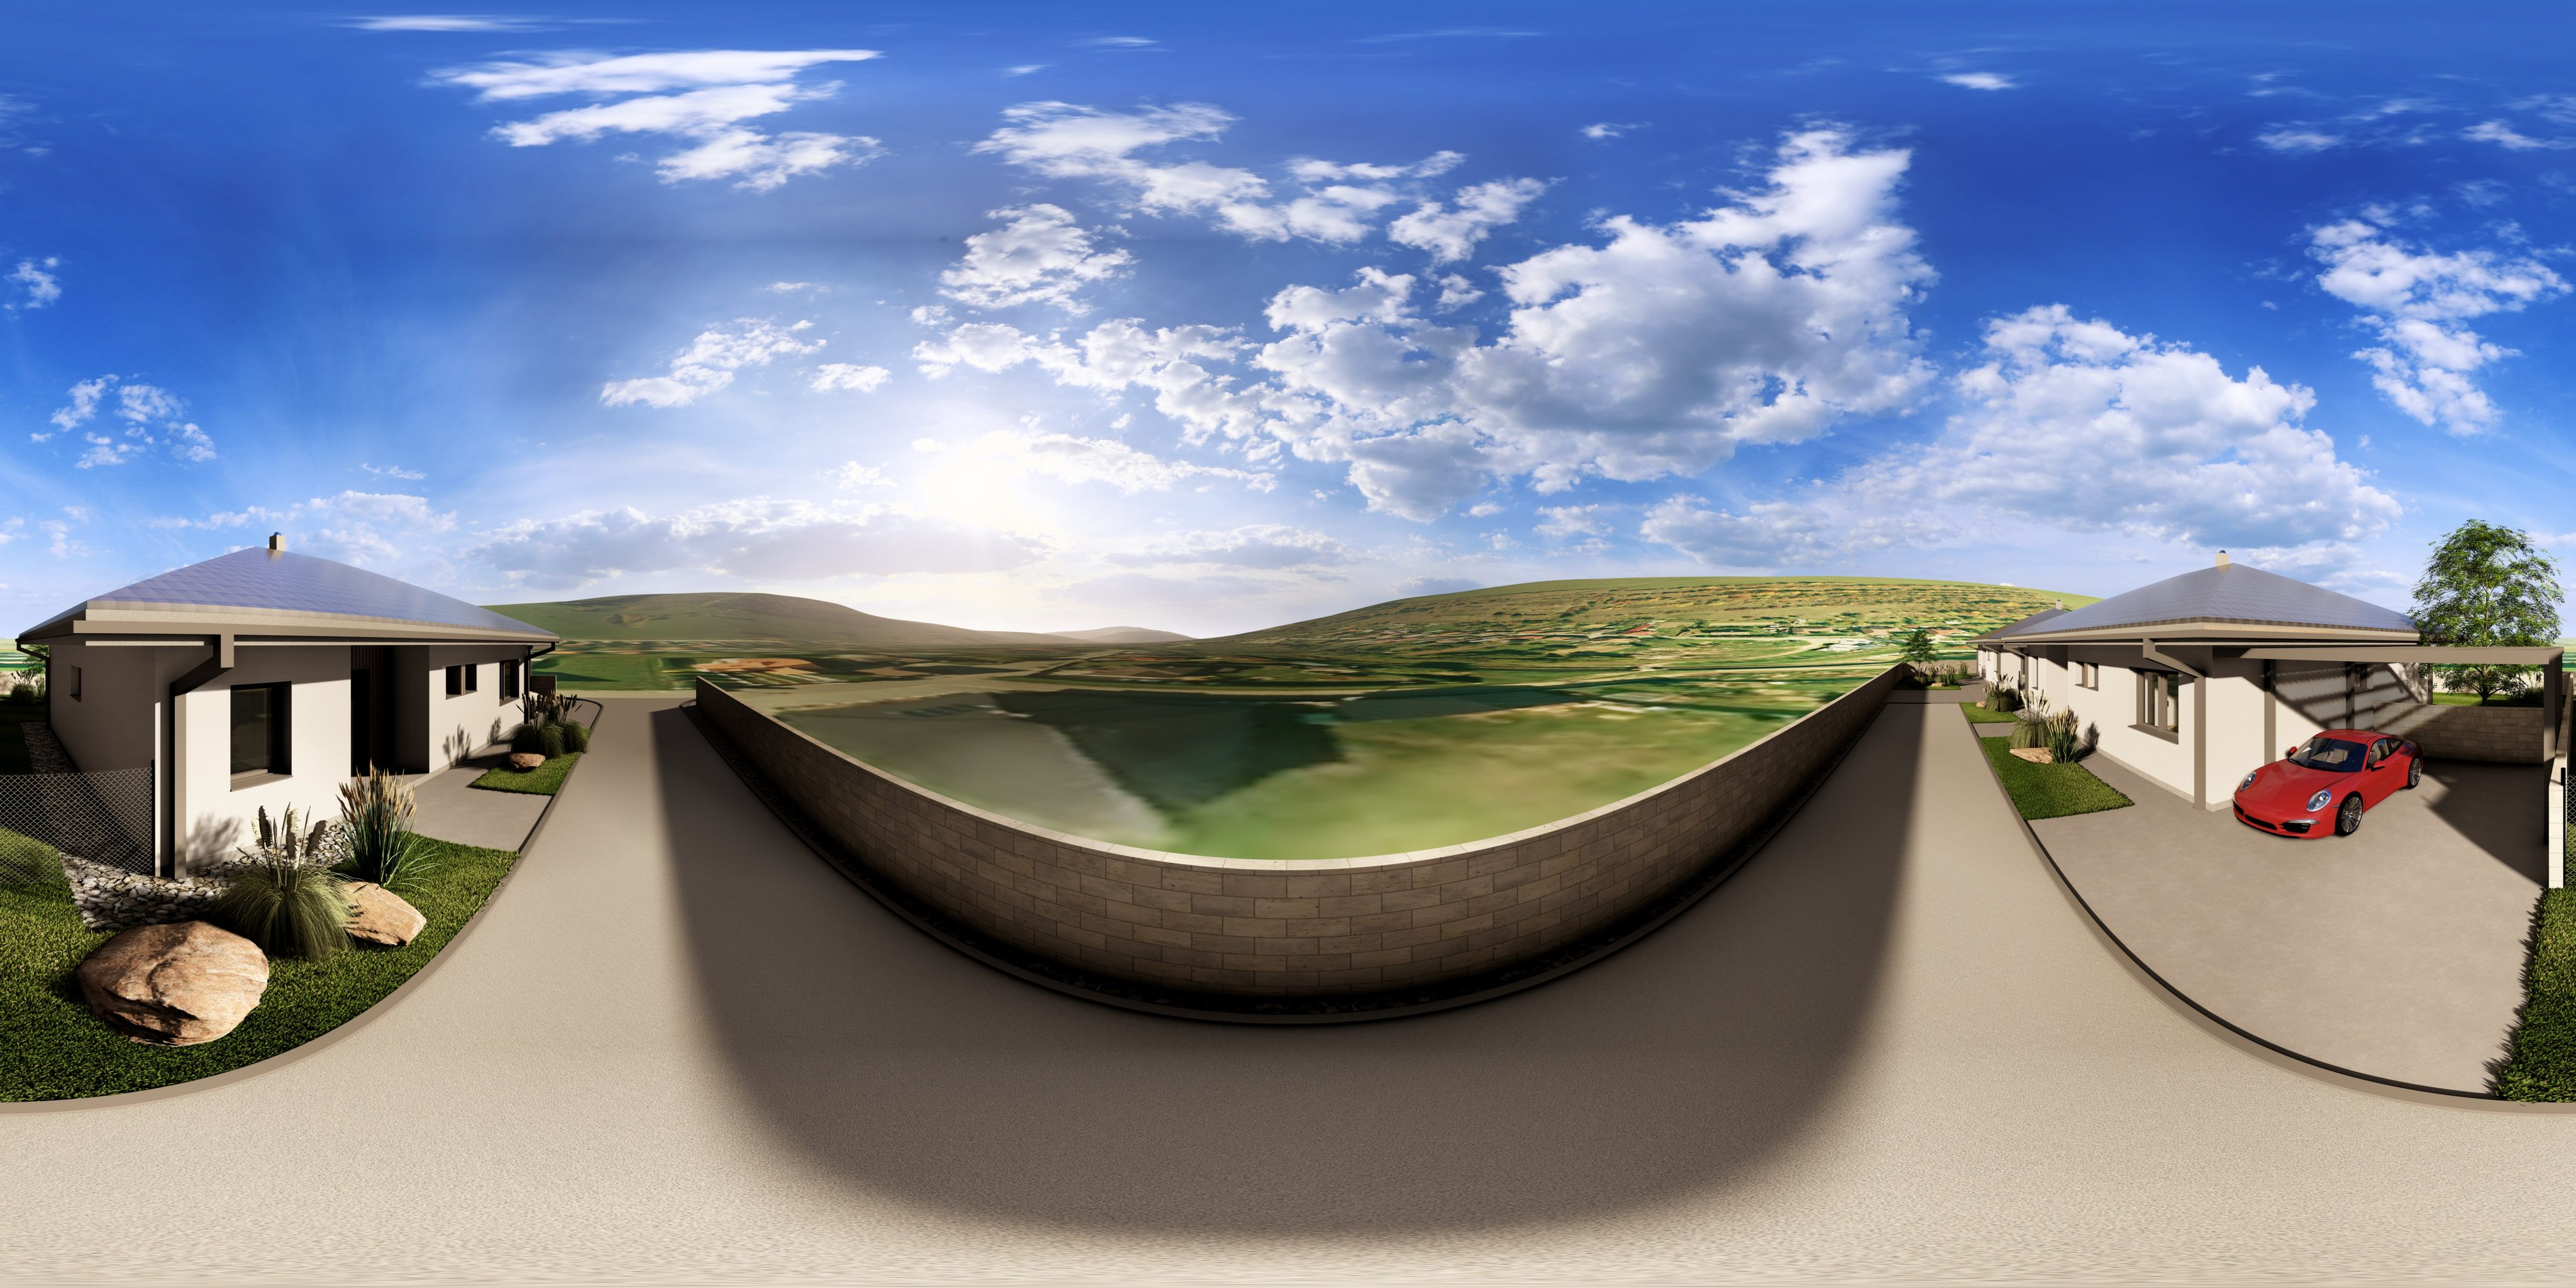
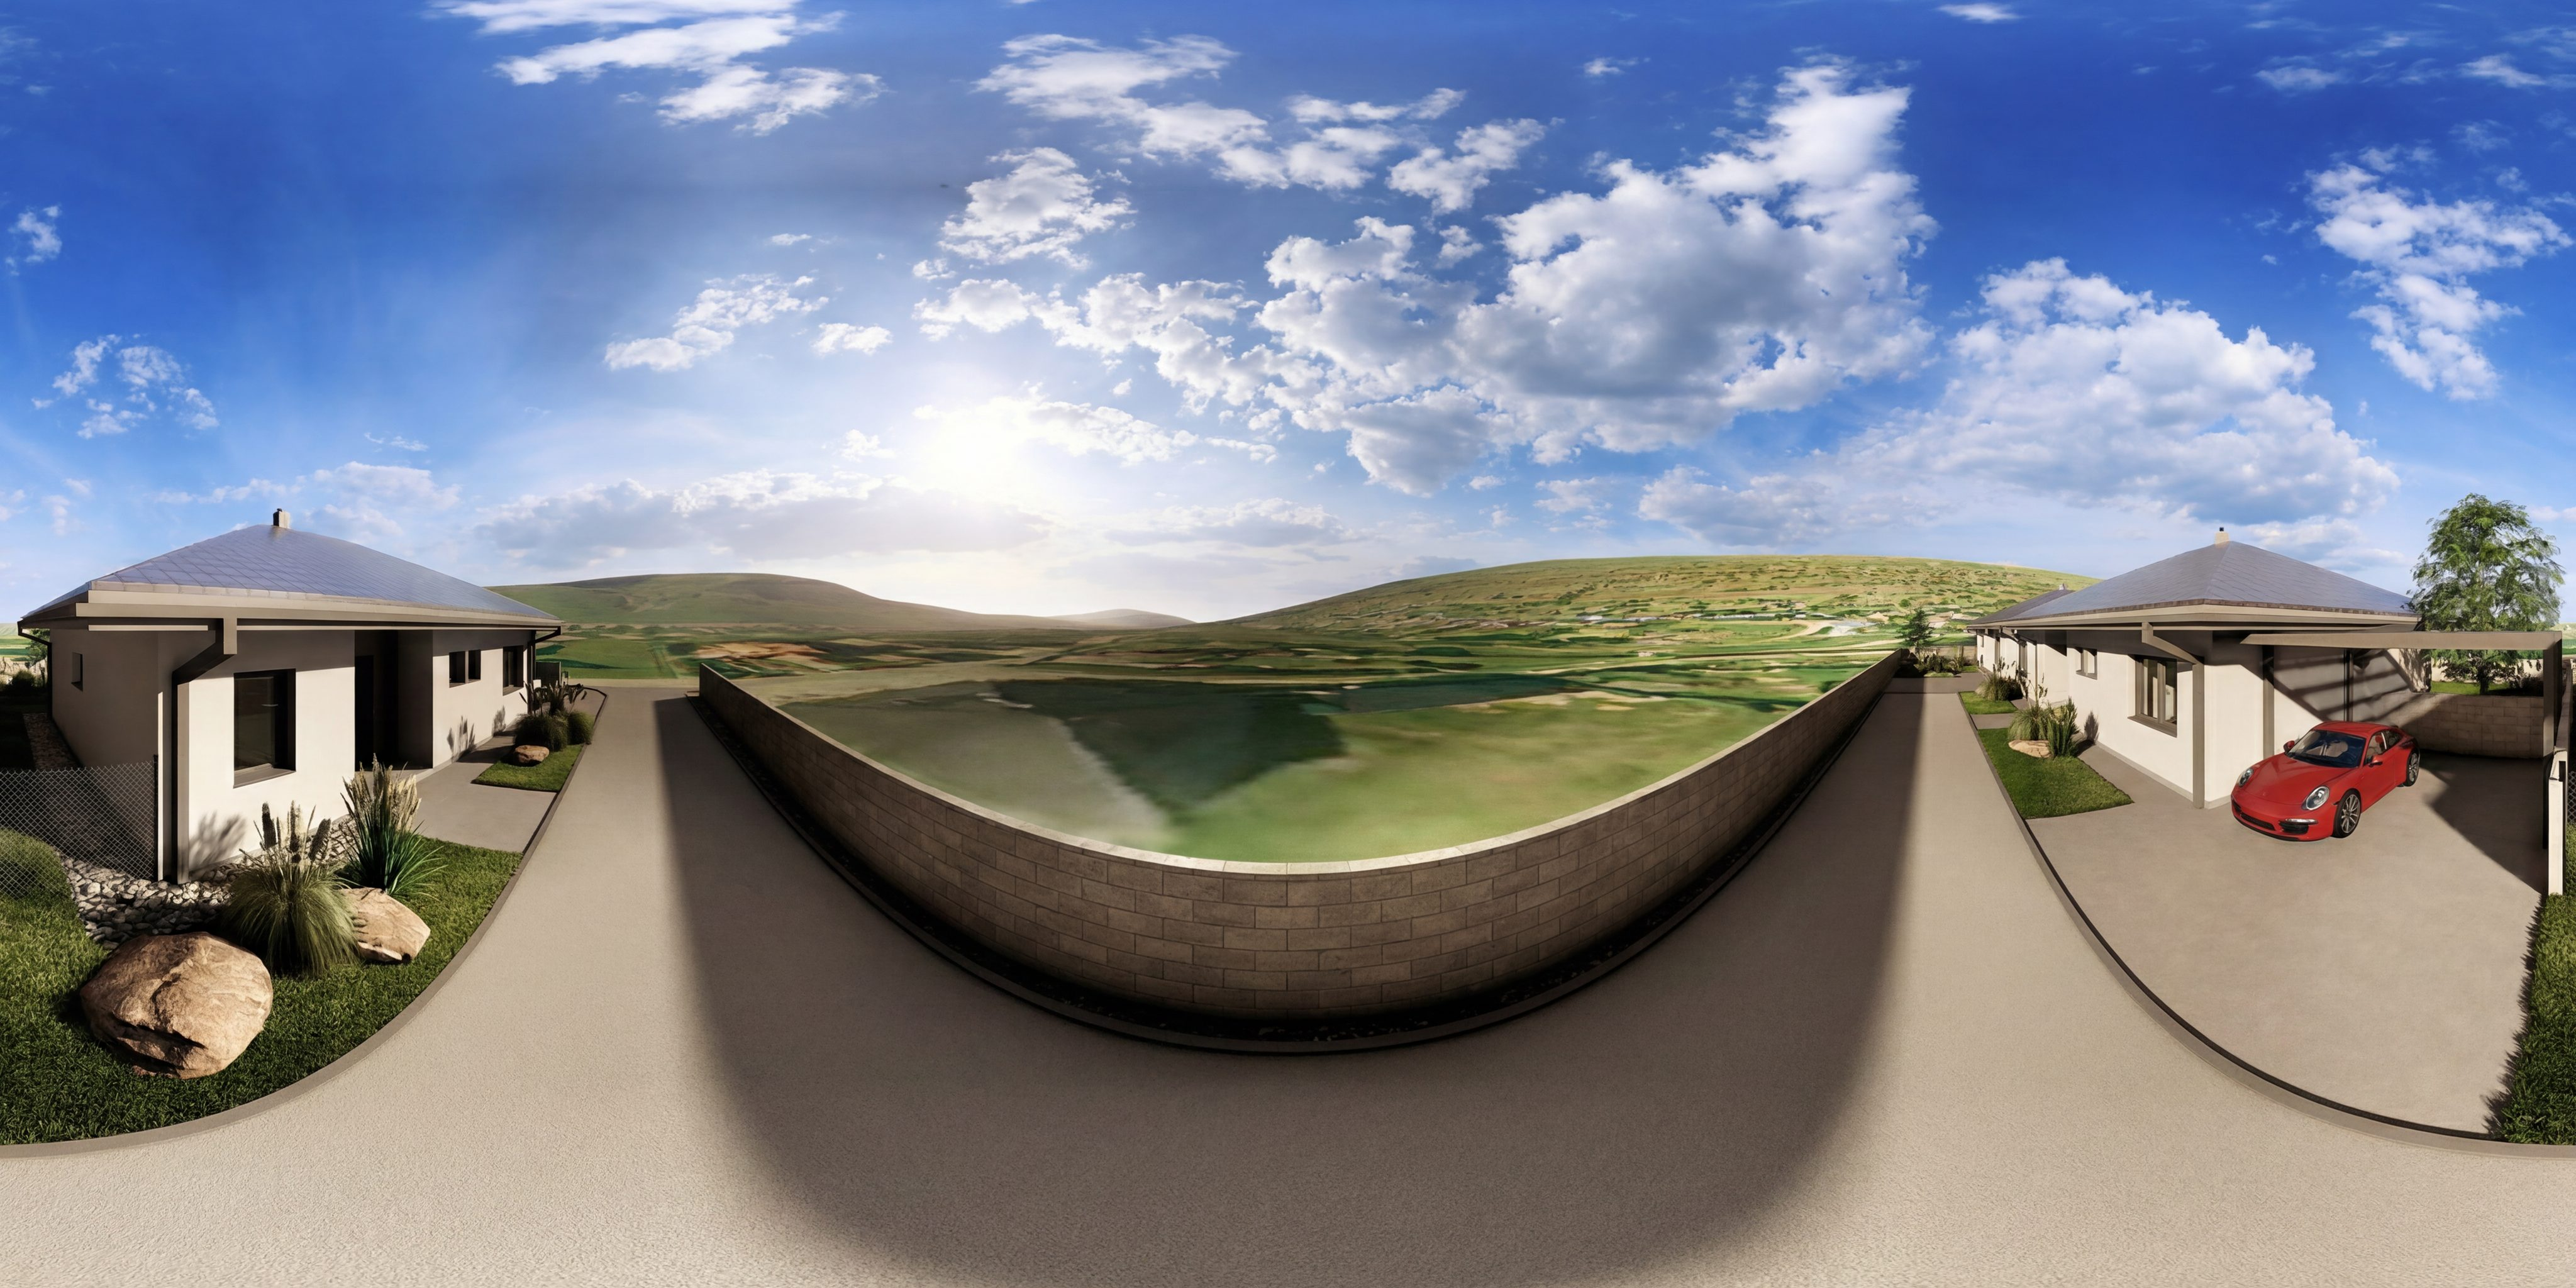
Add files via upload

diff --git a/index.html b/index.html
@@ -531,7 +531,6 @@
     <a href="#domy" class="brand"><img loading="lazy" src="assets/logo.png" alt="Alpha Reality"></a>
     <nav class="nav-links" id="navlinks">
       <a href="#domy">Domy</a>
-      <a href="#prehliadka">Virtuálna prehliadka</a>
       <a href="#vyhody">Financovanie</a>
       <a href="#lokalita">Lokalita</a>
       <a href="#kontakt">Kontakt</a>
@@ -775,7 +774,8 @@
     </div>
     <p class="imap-hint"><svg viewBox="0 0 24 24" fill="none"><path d="M5 3l4 16 2.5-7 7-2.5z" stroke="currentColor" stroke-width="1.8" stroke-linejoin="round"/></svg> Tip: ťuknite na číslo 1, 2 alebo 3 priamo v pláne.</p>
 
-    <!-- Virtual tour -->
+    <!-- Virtual tour — VYPNUTÉ, zapnúť neskôr -->
+    <!--
     <div class="feature reveal" id="prehliadka">
       <div class="fimg"><img loading="lazy" src="assets/street-white-car.jpg" alt="Vizualizácia domu Harichovce"></div>
       <div class="fbody">
@@ -785,6 +785,7 @@
         <a class="btn btn-gold vr-cta" href="https://my.matterport.com/show/?m=f26HkceUBii" target="_blank" rel="noopener"><span class="ring"></span>Spustiť virtuálnu prehliadku</a>
       </div>
     </div>
+    -->
 
     <!-- 360 PANORAMA -->
     <div class="sec-head reveal" style="margin-top:80px">
@@ -1144,6 +1145,8 @@
         hfov:100,
         minHfov:50,
         maxHfov:120,
+        yaw:80,
+        pitch:-5,
         compass:false,
         backgroundColor:[13,12,9]
       });